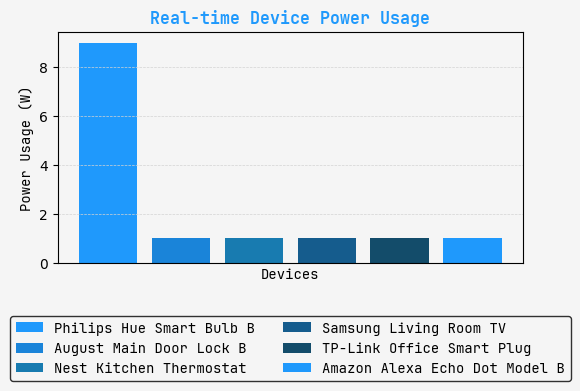
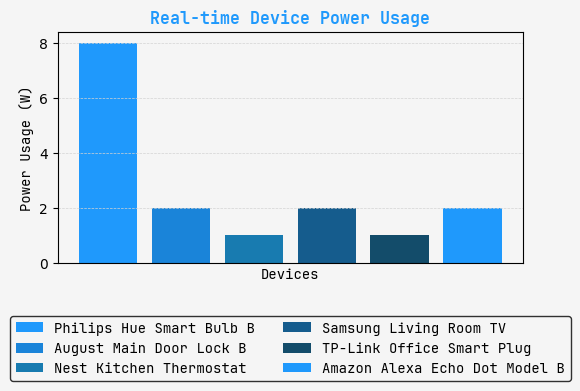
Remove unused ImageReader import from testPDF.py and update device bar chart image

diff --git a/backend/testPDF.py b/backend/testPDF.py
@@ -6,7 +6,6 @@ from reportlab.pdfbase.ttfonts import TTFont
 from reportlab.pdfbase import pdfmetrics
 from reportlab.lib.pagesizes import letter
 from reportlab.pdfgen import canvas
-from reportlab.lib.utils import ImageReader
 from reportlab.lib import colors
 from datetime import datetime
 
